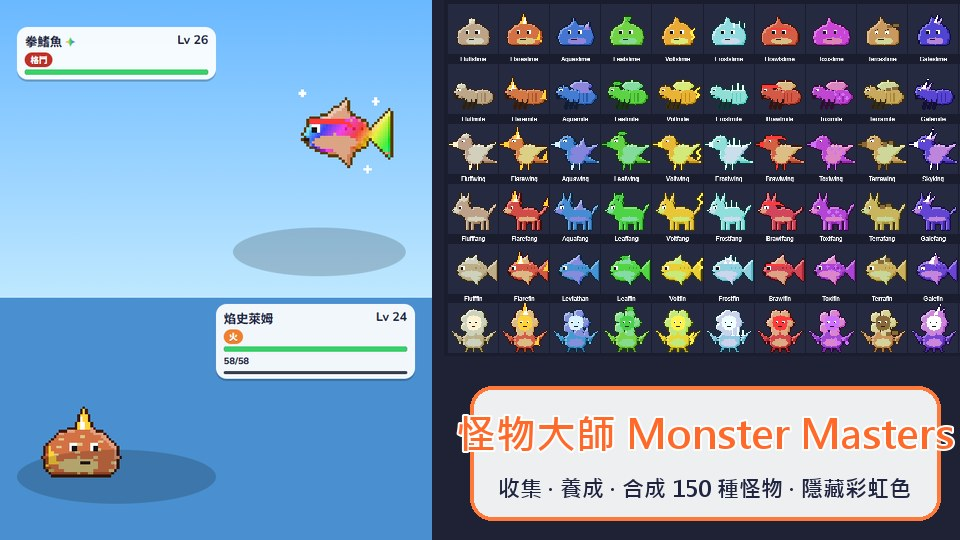
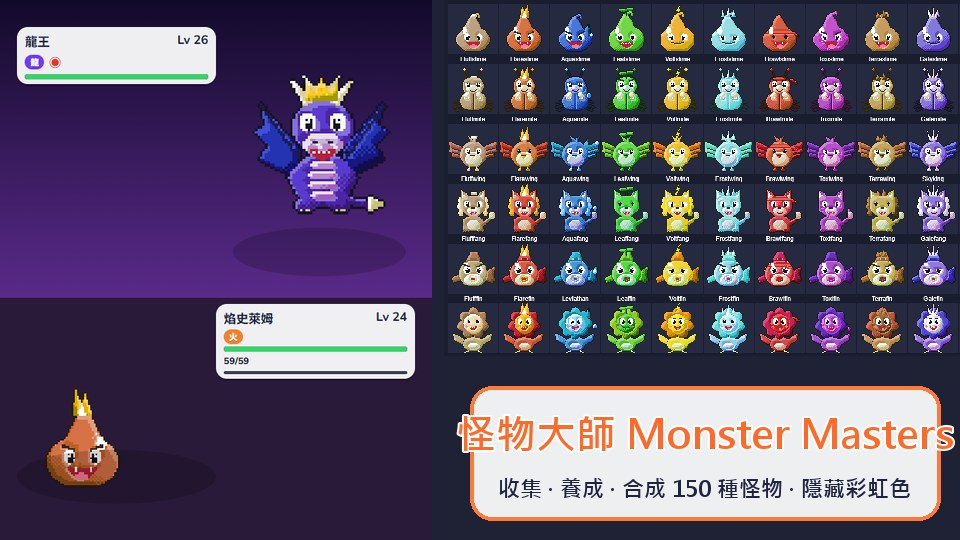
Monster Masters: new thumbnail with the redrawn monsters

diff --git a/games.js b/games.js
@@ -13,7 +13,7 @@ window.GAMES = [
   {
     id: 'monsters',
     url: '/monster-masters/',
-    thumb: 'thumbs/monsters.jpg?v=1',
+    thumb: 'thumbs/monsters.jpg?v=2',
     color: '#ff7a3a',
     genres: ['rpg', 'strategy'],
     devices: ['keyboard', 'touch'],
